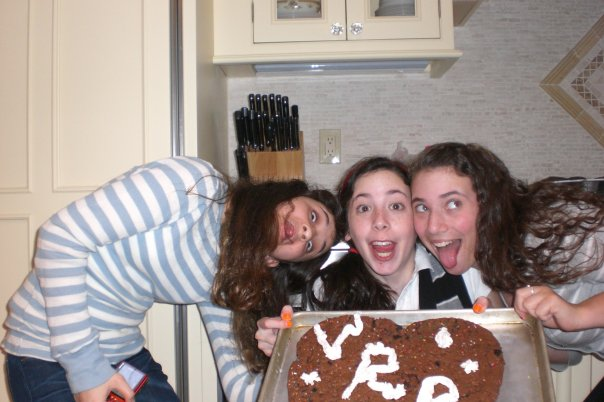
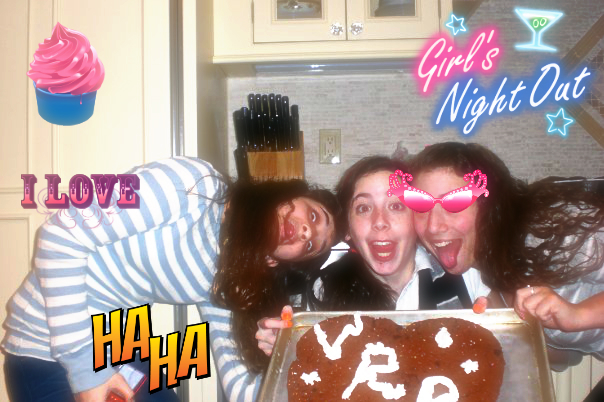
more stuff

diff --git a/index.html b/index.html
@@ -52,13 +52,13 @@
     <img src="images/fun.jpg" alt="me" />
     <p class='caption'> haha its sO bright out !! </p>
     <hr>
+    
+    <img src="images/and-friend.png" alt="me" />
+    <p class='caption'> ok just having a little fun here </p>
+    <hr>
 
     <img src="images/more-friends.jpg" alt="me" />
     <p class='caption'> going out </p>
-    <hr>
-
-    <img src="images/and-friend.png" alt="me" />
-    <p class='caption'> ok just having a little fun here </p>
     <hr>
 
     <img src="images/cake.jpg" alt="me" />

diff --git a/morestuff.html b/morestuff.html
@@ -17,6 +17,8 @@
       </ul>
     </div>
     <br>
+    <img src="images/shades.png" id='shades'/>
+    <br>
     <span id='back-to-main'>back to<a href="/"> my page</a></span>
 
   </body>

diff --git a/sytle.css b/sytle.css
@@ -43,8 +43,12 @@ hr {
 }
 
 #dog-img {
-  width: 45px;
+  width: 55px;
   border: none;
+}
+
+#shades {
+  width: 250px;
 }
 
 #back-to-top {
